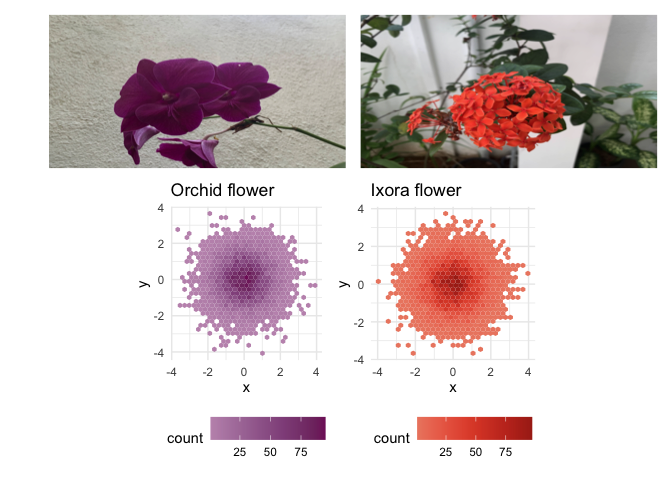
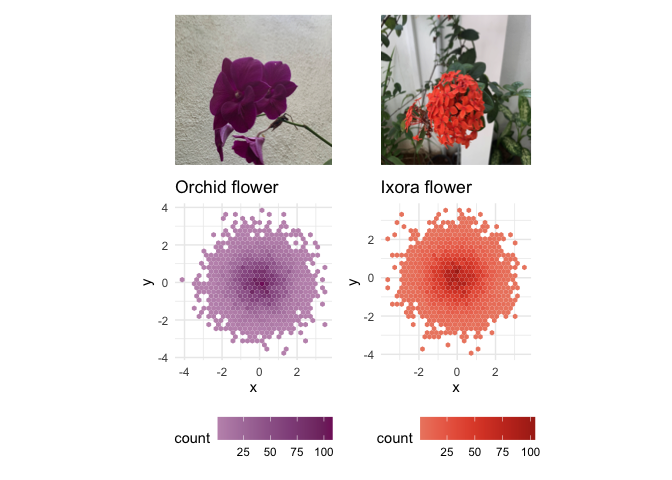
update README: minor changes

diff --git a/README.md b/README.md
@@ -134,7 +134,7 @@ ixora_plot <- ggplot(data.frame(x = rnorm(1e4), y = rnorm(1e4)), aes(x = x, y = 
   ggtitle("Ixora flower") +
   theme_minimal()+
   theme(legend.position = "bottom")
-(orchid_image + ixora_image) / (orchid_plot + ixora_plot)
+orchid_image + ixora_image + orchid_plot + ixora_plot
 ```
 
 <img src="man/figures/README-unnamed-chunk-7-1.png" width="100%" />
